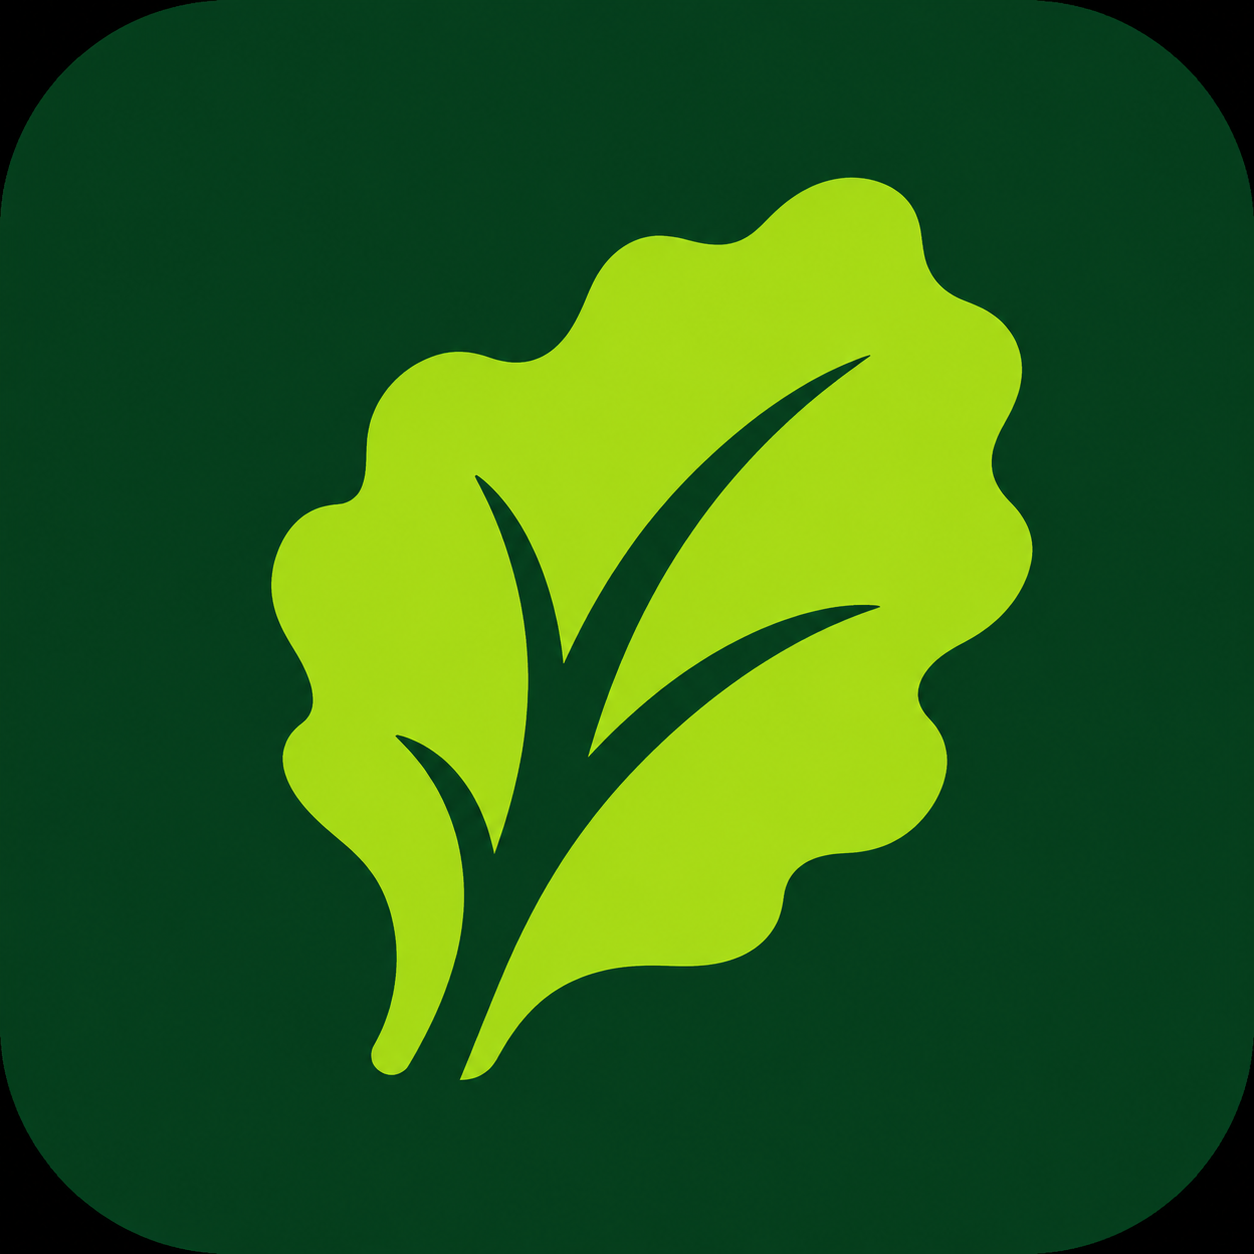
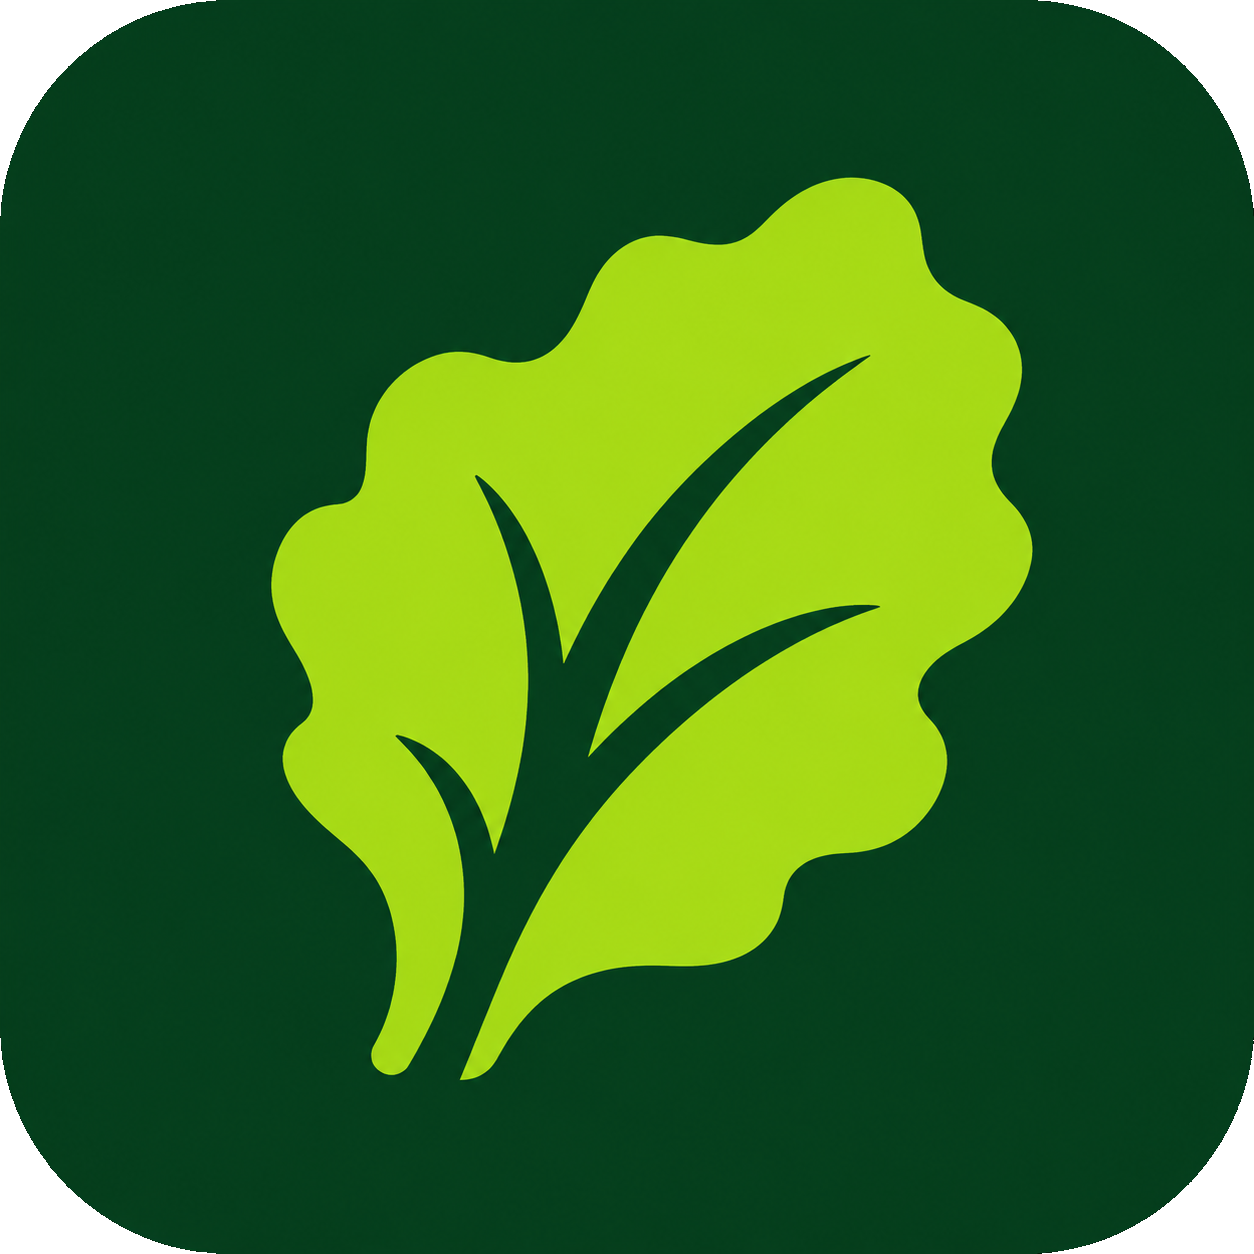
last change

diff --git a/index.html b/index.html
@@ -4,7 +4,7 @@
 <meta charset="UTF-8">
 <meta name="viewport" content="width=device-width, initial-scale=1.0">
 <title>Lista della Spesa 🛒</title>
-<link rel="icon" type="image/png" href="spesa.png?v=20260607144753">
+<link rel="icon" type="image/png" href="spesa.png?v=20260607145322">
 <link href="https://fonts.googleapis.com/css2?family=Fraunces:ital,wght@0,400;0,600;1,400&family=DM+Sans:wght@400;500&display=swap" rel="stylesheet">
 <style>
   :root {

diff --git a/lista-spesa.html b/lista-spesa.html
@@ -4,7 +4,7 @@
 <meta charset="UTF-8">
 <meta name="viewport" content="width=device-width, initial-scale=1.0">
 <title>Lista della Spesa 🛒</title>
-<link rel="icon" type="image/png" href="spesa.png?v=20260607144753">
+<link rel="icon" type="image/png" href="spesa.png?v=20260607145322">
 <link href="https://fonts.googleapis.com/css2?family=Fraunces:ital,wght@0,400;0,600;1,400&family=DM+Sans:wght@400;500&display=swap" rel="stylesheet">
 <style>
   :root {